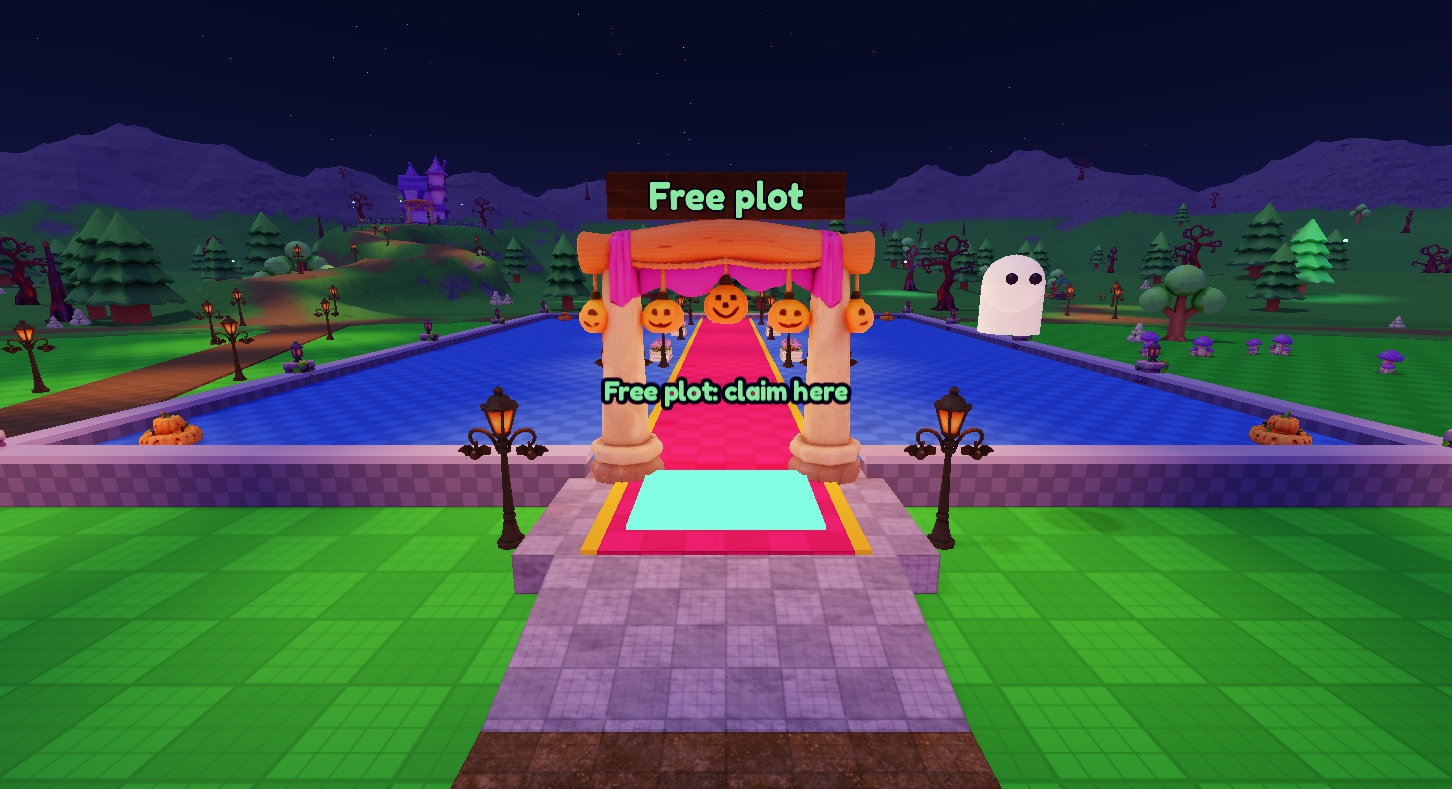
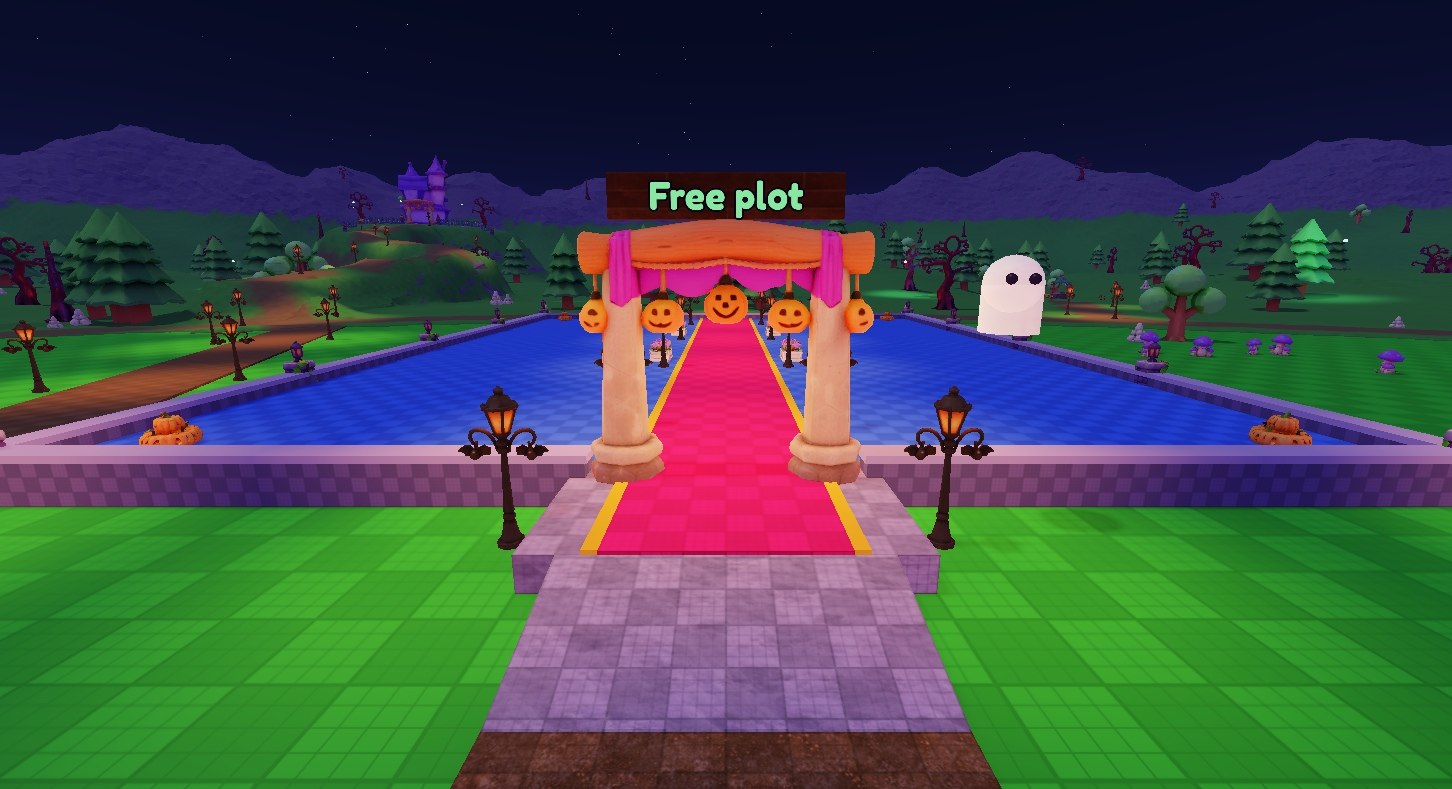
Restore plot auto-assign by owner decision, remove claim pads
A player gets the first free plot when their save loads; waiting visitors get the next
one freed. Ownership tracking, cleanup on leave, visitor protection and lock signs stay.
The tutorial's claim-plot step is no longer needed.

Not play-tested.

diff --git a/docs/phase2/REPORT.md b/docs/phase2/REPORT.md
@@ -1,13 +1,22 @@
-# Phase 2 report: world, plots and rooms (2026-11-01)
+# Phase 2 report: world, plots and rooms (2026-11-01, updated 2026-11-02)
 
-Built in SCARE THEM in Edit mode. **Not play-tested:** claiming, leaving and visiting have only been tested as logic and by reading the code, and only you can run Play.
+Built in SCARE THEM in Edit mode. **Not play-tested:** auto-assign, leaving and visiting have only been tested as logic and by reading the code, and only you can run Play.
+
+## Owner decision: plots are auto-assigned (WaddleWorks, 2026-11-02)
+
+The master prompt and Phase 2 prompt ask for a claim station. The owner tried that idea and chose auto-assign instead, so **this decision overrides them**. Don't add claim stations back.
+
+- When a player's save loads, the server gives them the first free plot and teleports them to it. They also respawn there.
+- If all 8 plots are taken, they visit with a message and get the next plot that frees up.
+- The "claim plot" step in the master prompt's tutorial (Section 12, step 1, and Phase 5's "claim plot" step) is no longer needed. The tutorial starts at the crawl-hole scare.
+- The acceptance check "can claim one plot only" now means each player is given exactly one plot.
 
 ## What changed
 
 | Area | Change |
 |---|---|
-| Claiming | Plots are no longer auto-assigned. Each plot has a green pad at its gate with a `Claim Plot` prompt, which works with E or touch. The server checks that the save has loaded, the rate limit, your distance and that the plot is free |
-| Leaving | Your plot empties, the sign goes back to "Free plot", and the pad returns for the next player |
+| Ownership | `PlotClaims` tracks who owns which plot, with no yields, so two players can't get one plot |
+| Leaving | Your plot empties, the sign goes back to "Free plot", and the next waiting visitor gets it |
 | Visitors | Anyone can walk around any plot. Using another player's case or crawl hole does nothing except show a message |
 | Lock signs | Locked bays now say how many rebirths they still need |
 | Rebirth station | New in the hub, parts plus the existing stone pillars. The prompt opens the same confirm dialog as the HUD button |
@@ -17,32 +26,30 @@ Built in SCARE THEM in Edit mode. **Not play-tested:** claiming, leaving and vis
 
 No new meshes or generated assets went in. I built with Parts and existing `MapKit` models only.
 
-Already there and kept: hidden neutral lobby spawn, 8 plots, blue studded floors, pink carpet aisles, night sky, pumpkins and graves, egg shrine and odds board, shop stall, 3 rooms per side, 3 unlocked at the start, display left and window right, crawl holes, owner signs.
+Already there and kept: hidden neutral spawn in the hub, 8 plots, blue studded floors, pink carpet aisles, night sky, pumpkins and graves, egg shrine and odds board, shop stall, 3 rooms per side, 3 unlocked at the start, display left and window right, crawl holes, owner signs.
 
 ## Test results
 
 | Test | Result |
 |---|---|
-| `PlotTests`, 112 checks | All passed |
+| `PlotTests`, 104 checks | All passed |
 | `ConfigTests`, 53 checks | All passed |
-| Eight claims at once, no two owners, ninth player refused, double claim refused, race for one plot, release and reclaim | Passed, on the claim logic only, no real players |
+| Eight owners at once, no two owners, ninth player refused, double ownership refused, race for one plot, release and reassign | Passed, on the ownership logic only, no real players |
 | Glass left and window right from the aisle, on all six bays | Passed, measured |
-| Pathfinding (radius 2, height 5, no jumping): spawn to all 8 pads, each pad through the gate, full length of an aisle, spawn to egg board, shop, fusing and rebirth | All found a route, but with plots empty. Rooms exist only after claiming, so walking around them is in your manual test |
-| Cleanup on leave | Code read only, needs your test below |
-
-Two bugs turned up in the screenshots and are fixed: the claim pads were buried in the carpet, and floating ghosts blocked the shop sign and odds board.
+| Pathfinding (radius 2, height 5, no jumping): spawn to all 8 gates, each gate to inside the plot, full length of an aisle, spawn to egg board, shop, fusing and rebirth | All found a route, but with plots empty. Rooms exist only after a plot is assigned, so walking around them is in your manual test |
+| Auto-assign and cleanup on leave | Code read only, needs your test below |
 
 ## Screenshots
 
-Plot 1 was temporarily dressed as claimed for these, then cleared. The rooms show no kids or monsters, because those only appear in Play.
+Plot 1 was temporarily dressed as owned for these, then cleared. The rooms show no kids or monsters, because those only appear in Play. `gate-free.jpg` and `hub.jpg` were re-shot after the pads were removed. Green pads and "claim here" labels visible in the background of `rebirth.jpg`, `fusing.jpg`, `shop.jpg` and `egg-area.jpg` are gone from the game.
 
 | File | Shows |
 |---|---|
 | `hub.jpg` | Whole hub and nearby plots |
 | `egg-area.jpg` | Egg shrine, odds board |
 | `shop.jpg`, `fusing.jpg`, `rebirth.jpg` | The three stations |
-| `gate-free.jpg` | Unclaimed plot with claim pad |
-| `gate-owned.jpg` | Claimed plot with owner sign |
+| `gate-free.jpg` | Unowned plot |
+| `gate-owned.jpg` | Owned plot with owner sign |
 | `aisle.jpg` | Aisle with bays on both sides |
 | `bedroom-front.jpg` | Display left, window right, crawl hole |
 | `bedroom-inside.jpg` | Room interior and nightlight |
@@ -54,10 +61,9 @@ Plot 1 was temporarily dressed as claimed for these, then cleared. The rooms sho
 2. **Server size is not 8.** `Players.MaxPlayers` reads 60 and scripts can't change it. Set it in Creator Hub under the place's settings. A ninth player could join and only visit until then.
 3. **Players can't physically walk through the crawl hole.** It is 3.5 wide and 3 high. The scare fires from the prompt outside. Phase 4 needs to decide how entering works.
 4. **Visitors still see prompts** on other players' cases. They do nothing except show the message. Hiding them needs client code, not added here.
-5. **No voluntary release.** A plot is released only when its owner leaves. Not requested for this phase, so I left it out.
-6. **The rebirth HUD button works from anywhere.** The station is an extra way in, not the only one. Rebirth rules are Phase 7.
-7. **The rebirth dialog still says Fear goes back to 0**, and it does. Keeping leftover Fear, the default you left in place, arrives in Phase 7.
-8. **Phone and tablet HUD sizing** is still fixed pixels, Phase 8.
+5. **The rebirth HUD button works from anywhere.** The station is an extra way in, not the only one. Rebirth rules are Phase 7.
+6. **The rebirth dialog still says Fear goes back to 0**, and it does. Keeping leftover Fear, the default you left in place, arrives in Phase 7.
+7. **Phone and tablet HUD sizing** is still fixed pixels, Phase 8.
 
 ## Manual test
 
@@ -65,21 +71,17 @@ Save the place first. Stop Play between tests.
 
 **One player**
 
-1. Press Play. You should start in the hub with no plot, and Output should show `[Config] Balance is valid: 42 confirmed, 112 provisional`, with no red errors.
-2. Walk to a plot's gate. The pad should glow and read "Free plot: claim here". Use the prompt.
-3. Your name should appear on the sign, rooms should appear, and the pad should disappear. Bays 1 to 3 are open; 4 to 6 are boarded with signs saying 1, 2 and 3 more rebirths.
-4. Try another plot's pad. You should see "You already have a plot".
-5. Do a crawl-hole scare, hatch an egg at the hub, place the monster, wait for a scare, and pick it back up.
-6. Use the Rebirth Station prompt, then Cancel on the dialog. Check that it opens.
+1. Press Play. Within a moment you should arrive on a plot with your name on its sign. Output should show `[Config] Balance is valid: 42 confirmed, 110 provisional`, with no red errors.
+2. Bays 1 to 3 are open; 4 to 6 are boarded with signs saying 1, 2 and 3 more rebirths.
+3. Reset your character. You should come back on your plot.
+4. Do a crawl-hole scare, walk around the rooms, hatch an egg at the hub, place the monster, wait for a scare, and pick it back up.
+5. Use the Rebirth Station prompt, then Cancel on the dialog. Check that it opens.
 
 **Two or more players** (Test tab, Local Server, 2 or more players)
 
-7. Both players start in the hub with no plot.
-8. Player 1 claims a plot. Player 2 uses that plot's pad if it is still visible, or at least sees that it's gone.
-9. Player 2 claims a different plot. Both signs should be correct.
-10. Player 2 walks into player 1's plot and tries their case and a crawl hole. They should see the "isn't your plot" message, and nothing should change for player 1.
-11. Both try the same free plot at the same moment if you can. Only one should win, and the other sees "Someone just claimed this plot".
-12. Close player 1. Their plot should empty, the sign should read "Free plot", and the pad should return. Player 2 can't take it while they own a plot.
+6. Each player should get a different plot, with the right name on each sign.
+7. Player 2 walks into player 1's plot and tries their case and a crawl hole. They should see the "isn't your plot" message, and nothing should change for player 1.
+8. Close player 1. Their plot should empty and the sign should read "Free plot".
 
 **Checks from the command bar**
 
@@ -87,4 +89,4 @@ Save the place first. Stop Play between tests.
 print(require(game.ServerStorage.PlotTests)())
 ```
 
-The last line should say `ALL PASSED`. If it fails on an empty plot, you may have run it during Play, or left a plot dressed.
+The last line should say `ALL PASSED`. Run it outside Play, because it expects empty plots.

diff --git a/docs/ARCHITECTURE.md b/docs/ARCHITECTURE.md
@@ -77,15 +77,15 @@ Client requests with several steps carry a request id (the last `id` argument in
 | FuseMonsters | Function | client to server | monsterUids, requestId | Phase 7 |
 | SetSetting | Event | client to server | key, value | Phase 8 |
 
-Claiming stays a ProximityPrompt (server-side `Triggered`), so it needs no remote. Hatching, placing and manual scares are prompts today too; their phases decide whether to keep the prompt or move to the remote above.
+Plots are assigned by the server, so they need no remote. Hatching, placing and manual scares are ProximityPrompts today (server-side `Triggered`); their phases decide whether to keep the prompt or move to the remote above.
 
 ## Plots and floors
 
-`PlotClaims` owns who has which plot: `Unclaimed -> Claimed -> Released`, with no yields, so two requests can't both win. A player claims at a plot's `ClaimPad`; leaving releases it and empties `Contents`.
+Plots are **auto-assigned, by the owner's decision (overrides the master prompt's claim station)**. When a player's save loads, `GameService` gives them the first free plot. If all are taken they visit, and they get the next plot that frees up. `PlotClaims` tracks ownership: `Unclaimed -> Claimed -> Released`, with no yields, so two players can't get one plot. Leaving releases the plot and empties `Contents`.
 
 `PlotLayout` maps bedroom numbers to floors: 1-6 is floor 1, 7-12 is floor 2, and odd bays are on the left. Saves key placements by bedroom number, so a slot stays stable on any plot. A floor is meant to be a copy of `PlotTemplate.Bedrooms` lifted by `PlotLayout.floorHeight(floor)`, renumbered with `bedroomIndex`. Floor 2 is built in Phase 7; `Config.BEDROOM_COUNT` still caps the game at 6 rooms.
 
-`MapBuilder.claimPads()` and `MapBuilder.stations()` add the pads, rebirth station, fusing sign and ghosts without rebuilding the hub or plots. Re-running either replaces only what it made.
+`MapBuilder.stations()` adds the rebirth station, fusing sign and ghosts without rebuilding the hub or plots. Re-running it replaces only what it made.
 
 ## Saved data, schema version 2
 

diff --git a/README.md b/README.md
@@ -35,7 +35,7 @@ The place file is `JumpscareRNG.rbxl`. The scripts are kept as source here, laid
 - `src/ServerScriptService/Server/Main.server.luau`: the only server Script.
 - `src/ServerScriptService/Server/PlotClaims.luau`: who owns which plot. `src/ReplicatedStorage/Shared/PlotLayout.luau`: bedroom numbers and floors.
 - `src/ServerStorage/PlotTests.luau`: plot and room checks, run from the Studio command bar: `print(require(game.ServerStorage.PlotTests)())`.
-- `src/ServerScriptService/Server/GameService.luau`: plot claiming at each gate, hatching into the saved inventory, placing monsters, scares, bedroom tier rerolls, rebirth.
+- `src/ServerScriptService/Server/GameService.luau`: plot auto-assign, hatching into the saved inventory, placing monsters, scares, bedroom tier rerolls, rebirth.
 - `src/ServerScriptService/Server/PlayerData.luau`, `DataTemplate.luau`, `RateLimiter.luau`: session-locked saving and rate limits (from the vault's "Saved Inventory End to End").
 - `src/StarterPlayerScripts/HUD.client.luau`: Fear counter, rebirth button with a confirm step, popups.
 - `src/StarterPlayerScripts/MonsterAnimator.client.luau`: plays Jeff's scare when the server signals one.

diff --git a/docs/phase1/AUDIT.md b/docs/phase1/AUDIT.md
@@ -62,7 +62,7 @@ Before the Phase 1 sync there were 17 scripts; `docs/ARCHITECTURE.md` lists each
 
 | Gap | Phase |
 |---|---|
-| Auto-assign instead of a claim station; no station for shop, fusing, rebirth or index | 2 |
+| No station for shop, fusing, rebirth or index. Auto-assign stays by owner decision (2026-11-02), see `docs/phase2/REPORT.md` | 2 |
 | One floor only; no floor 2 | 2, 7 |
 | `Players.MaxPlayers` reads 60; the spec says 8 (a place setting, owner or Phase 2) | 2 |
 | Placement uses bedroom index, not a named slot ID (workable, needs a decision) | 3 |
